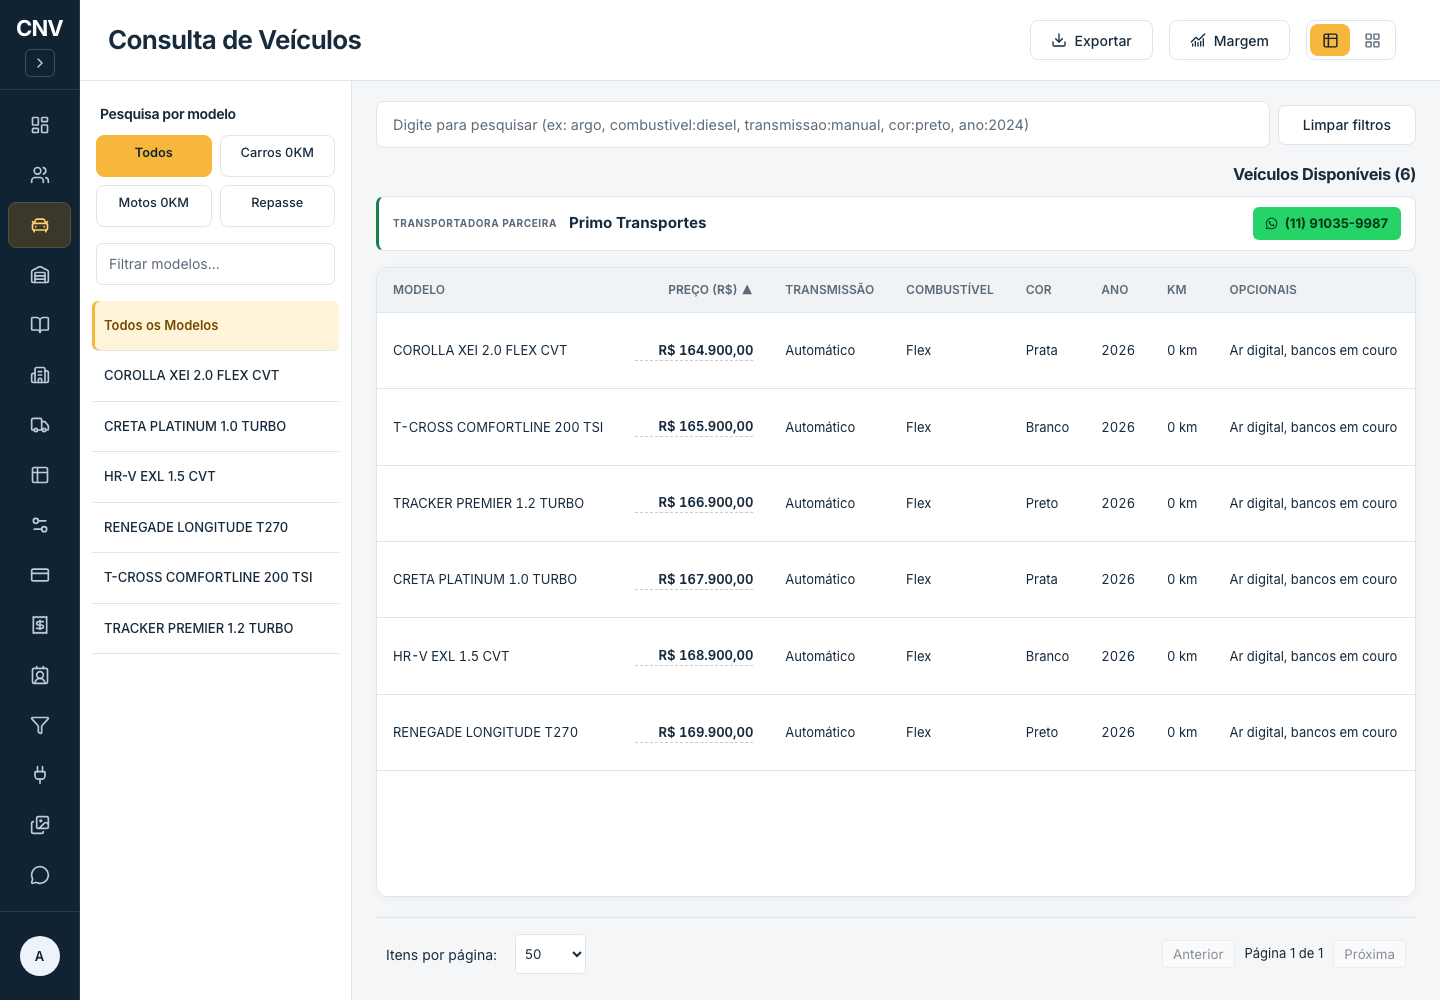
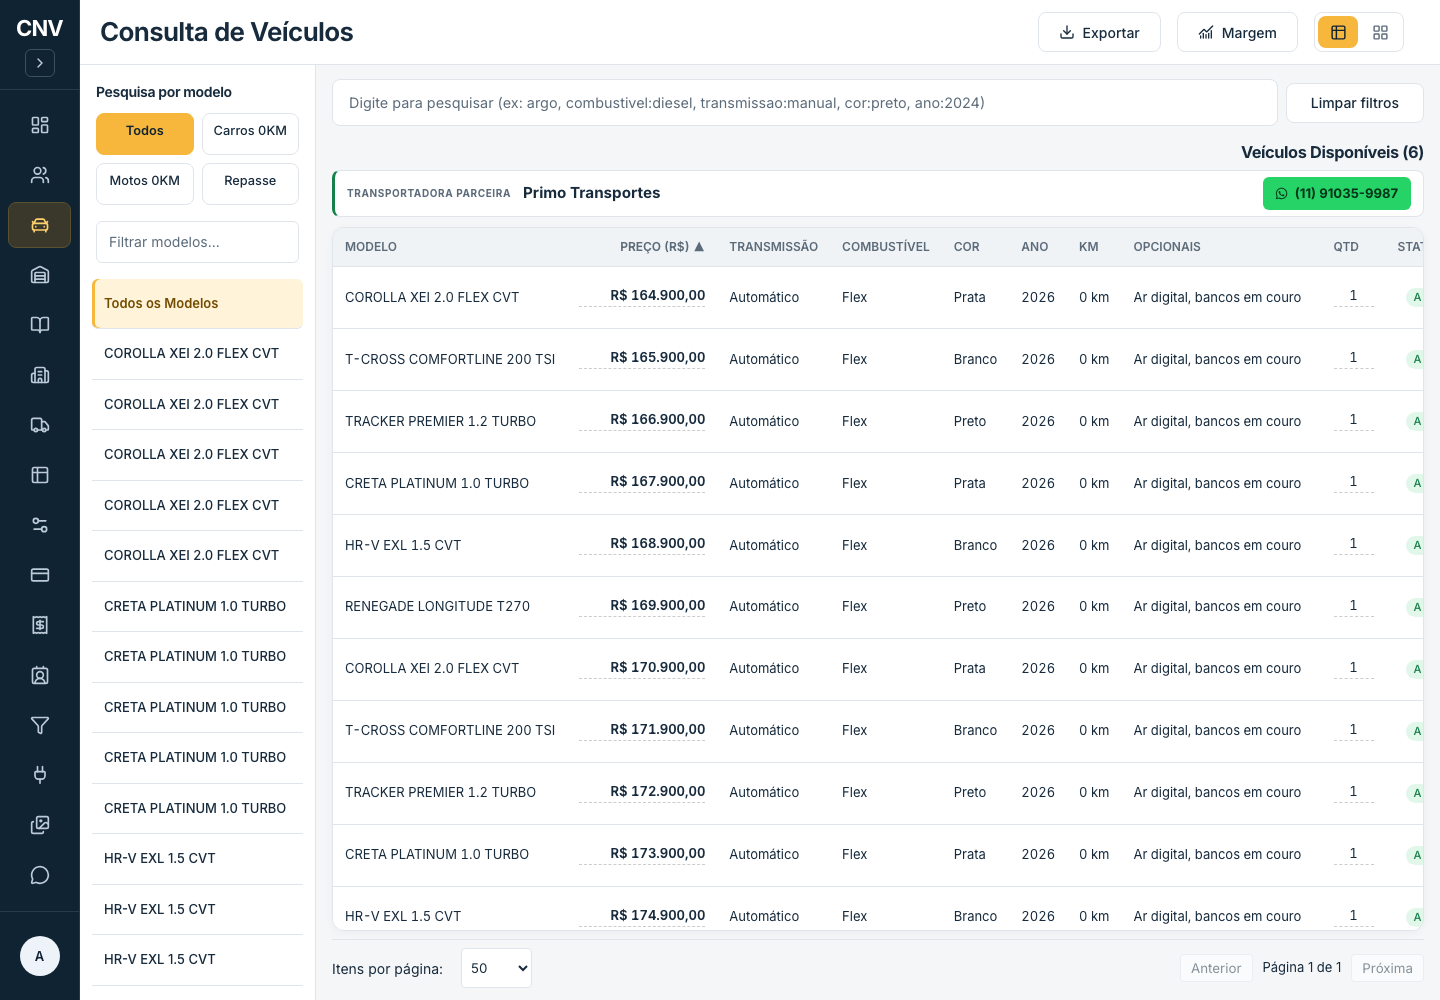
.
.

diff --git a/components/operator/VehicleConsultation.module.css b/components/operator/VehicleConsultation.module.css
@@ -1669,5 +1669,22 @@
 .modelItem { width: 100%; border: 0; background: transparent; text-align: left; font-family: inherit; }
 @media (max-width: 768px) { .modelItem { width: auto; } }
 :global([data-admin-design]) .table { align-self: flex-start; }
+
+/* Keep the stock grid dominant, with compact tools and independently scrolling rows. */
+@media (min-width: 769px) {
+    :global([data-admin-design]) .header { min-height: 64px; padding: 12px 20px; }
+    :global([data-admin-design]) .sidebar { width: 236px; }
+    :global([data-admin-design]) .sidebarTitle { margin: 18px 16px 12px; }
+    :global([data-admin-design]) .searchSection { padding: 14px 16px 8px; }
+    :global([data-admin-design]) .resultsSection { padding: 10px 16px 12px; }
+    :global([data-admin-design]) .freteBanner { margin: 0 16px; padding: 6px 12px; }
+    :global([data-admin-design]) .paginationContainer { margin-top: 8px; padding: 8px 0 0; }
+    :global([data-admin-design]) .tableHeader { padding: 10px 12px; }
+    :global([data-admin-design]) .tableCell { padding: 8px 12px; line-height: 1.35; }
+    :global([data-admin-design]) .tableContainer { scrollbar-width: auto; scrollbar-color: var(--color-text-muted) var(--color-panel); }
+    :global([data-admin-design]) .tableContainer::-webkit-scrollbar { width: 10px; height: 10px; }
+    :global([data-admin-design]) .tableContainer::-webkit-scrollbar-thumb { background: var(--color-text-muted); border: 2px solid var(--color-panel); border-radius: 6px; }
+    :global([data-admin-design]) .tableContainer::-webkit-scrollbar-track { background: var(--color-panel); }
+}
 :global([data-admin-design]) .modelItem.active { background: var(--admin-selected); }
 :global([data-admin-design]) .priceCell { text-align: right; font-variant-numeric: tabular-nums; font-weight: 650; min-width: 150px; }

diff --git a/app/dashboard/admin/page.tsx b/app/dashboard/admin/page.tsx
@@ -254,7 +254,17 @@ export default function AdminDashboard() {
     return (
         <ConfigContext.Provider value={{ margem, fixedMargin, marginMode, setMargem: (v: number) => updateMargem(v, marginMode, fixedMargin), setMarginConfig: ({ margem: v, marginMode: m, fixedMargin: f }) => updateMargem(v, m, f) }}>
             <div className={styles.layoutWrapper}>
-                <aside className={`${styles.sidebar} ${isSidebarCollapsed ? styles.sidebarCollapsed : ''}`}>
+                <aside
+                    className={`${styles.sidebar} ${isSidebarCollapsed ? styles.sidebarCollapsed : ''}`}
+                    onMouseEnter={() => setIsSidebarCollapsed(false)}
+                    onMouseLeave={() => setIsSidebarCollapsed(true)}
+                    onFocusCapture={(event) => {
+                        if (event.target.matches(':focus-visible')) setIsSidebarCollapsed(false);
+                    }}
+                    onBlurCapture={(event) => {
+                        if (!event.currentTarget.contains(event.relatedTarget as Node | null)) setIsSidebarCollapsed(true);
+                    }}
+                >
                     <div className={styles.sidebarHeader}>
                         {!isSidebarCollapsed && (
                             <Image

diff --git a/app/dashboard/admin/admin.module.css b/app/dashboard/admin/admin.module.css
@@ -2,6 +2,12 @@
 .layoutWrapper { display: flex; height: 100dvh; overflow: hidden; background: var(--color-bg); }
 .sidebar { width: 236px; background: #102333; color: #e7eef5; display: flex; flex-direction: column; flex-shrink: 0; height: 100%; border-right: 1px solid #243a4c; transition: width 150ms; }
 .sidebarCollapsed { width: 80px; }
+/* Expansion overlays the workspace so vehicle columns never move on hover. */
+@media (min-width: 769px) {
+    .layoutWrapper { padding-left: 80px; position: relative; }
+    .sidebar { position: absolute; inset: 0 auto 0 0; z-index: 50; }
+    .sidebar:not(.sidebarCollapsed) { box-shadow: 12px 0 28px rgba(8, 24, 38, .18); }
+}
 .sidebarHeader { min-height: 84px; display: flex; align-items: center; justify-content: space-between; gap: 8px; padding: 16px; border-bottom: 1px solid #263b4c; }
 .sidebarCollapsed .sidebarHeader { flex-direction: column; padding: 12px 8px; gap: 4px; }
 .sidebarLogo { object-fit: contain; width: 150px; height: auto; }
